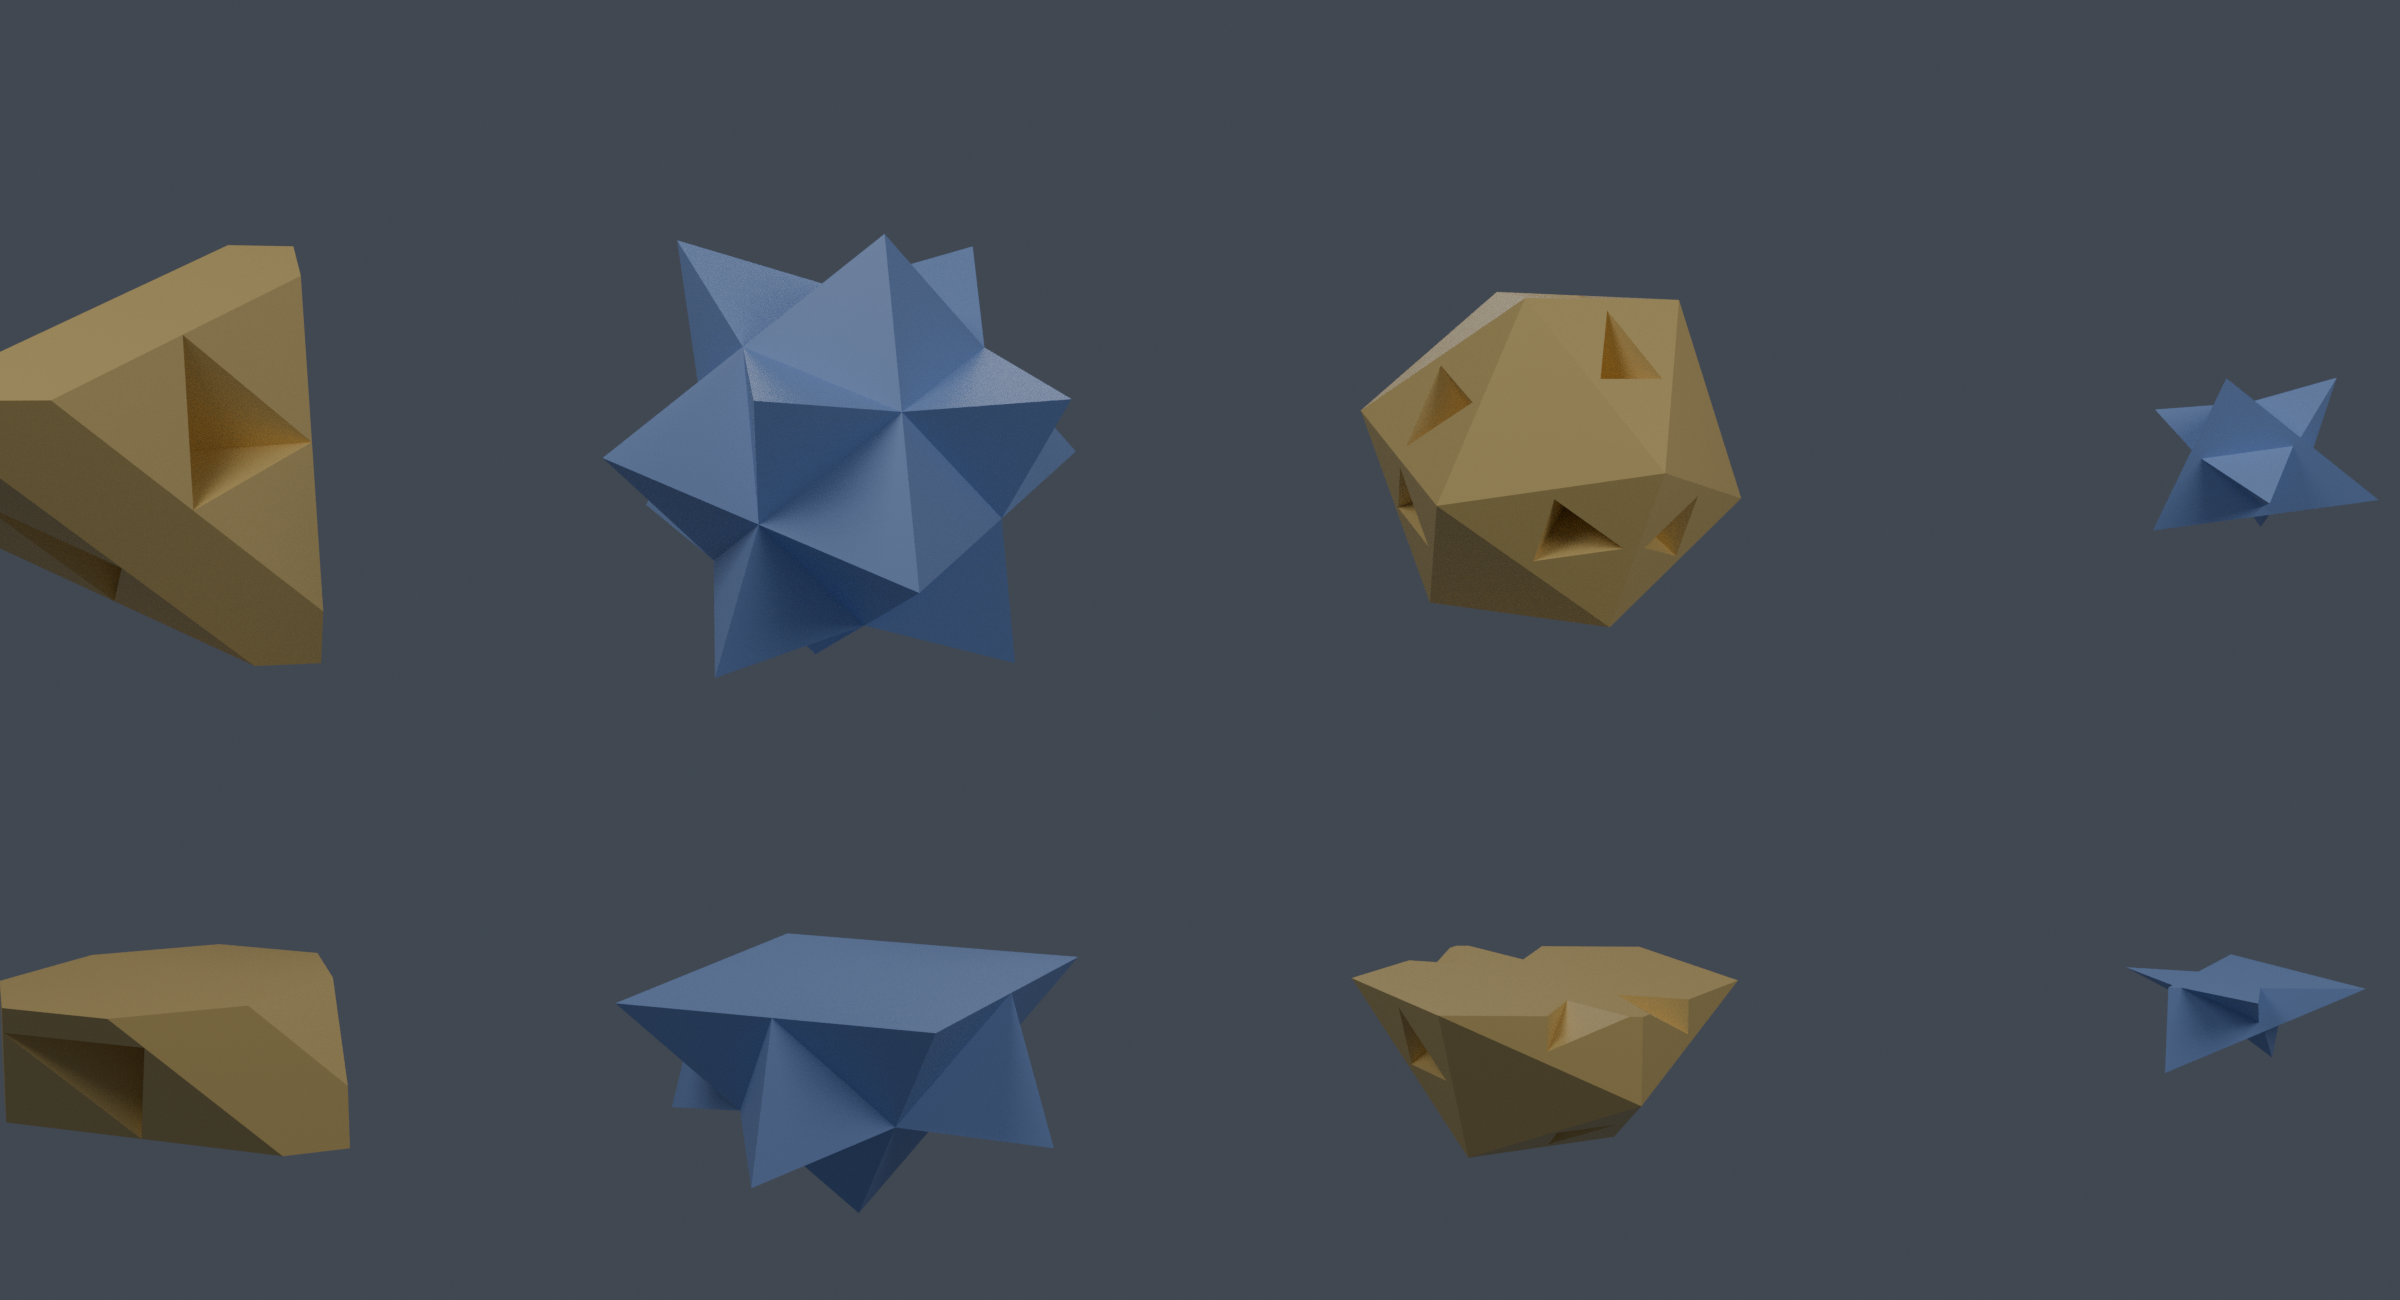
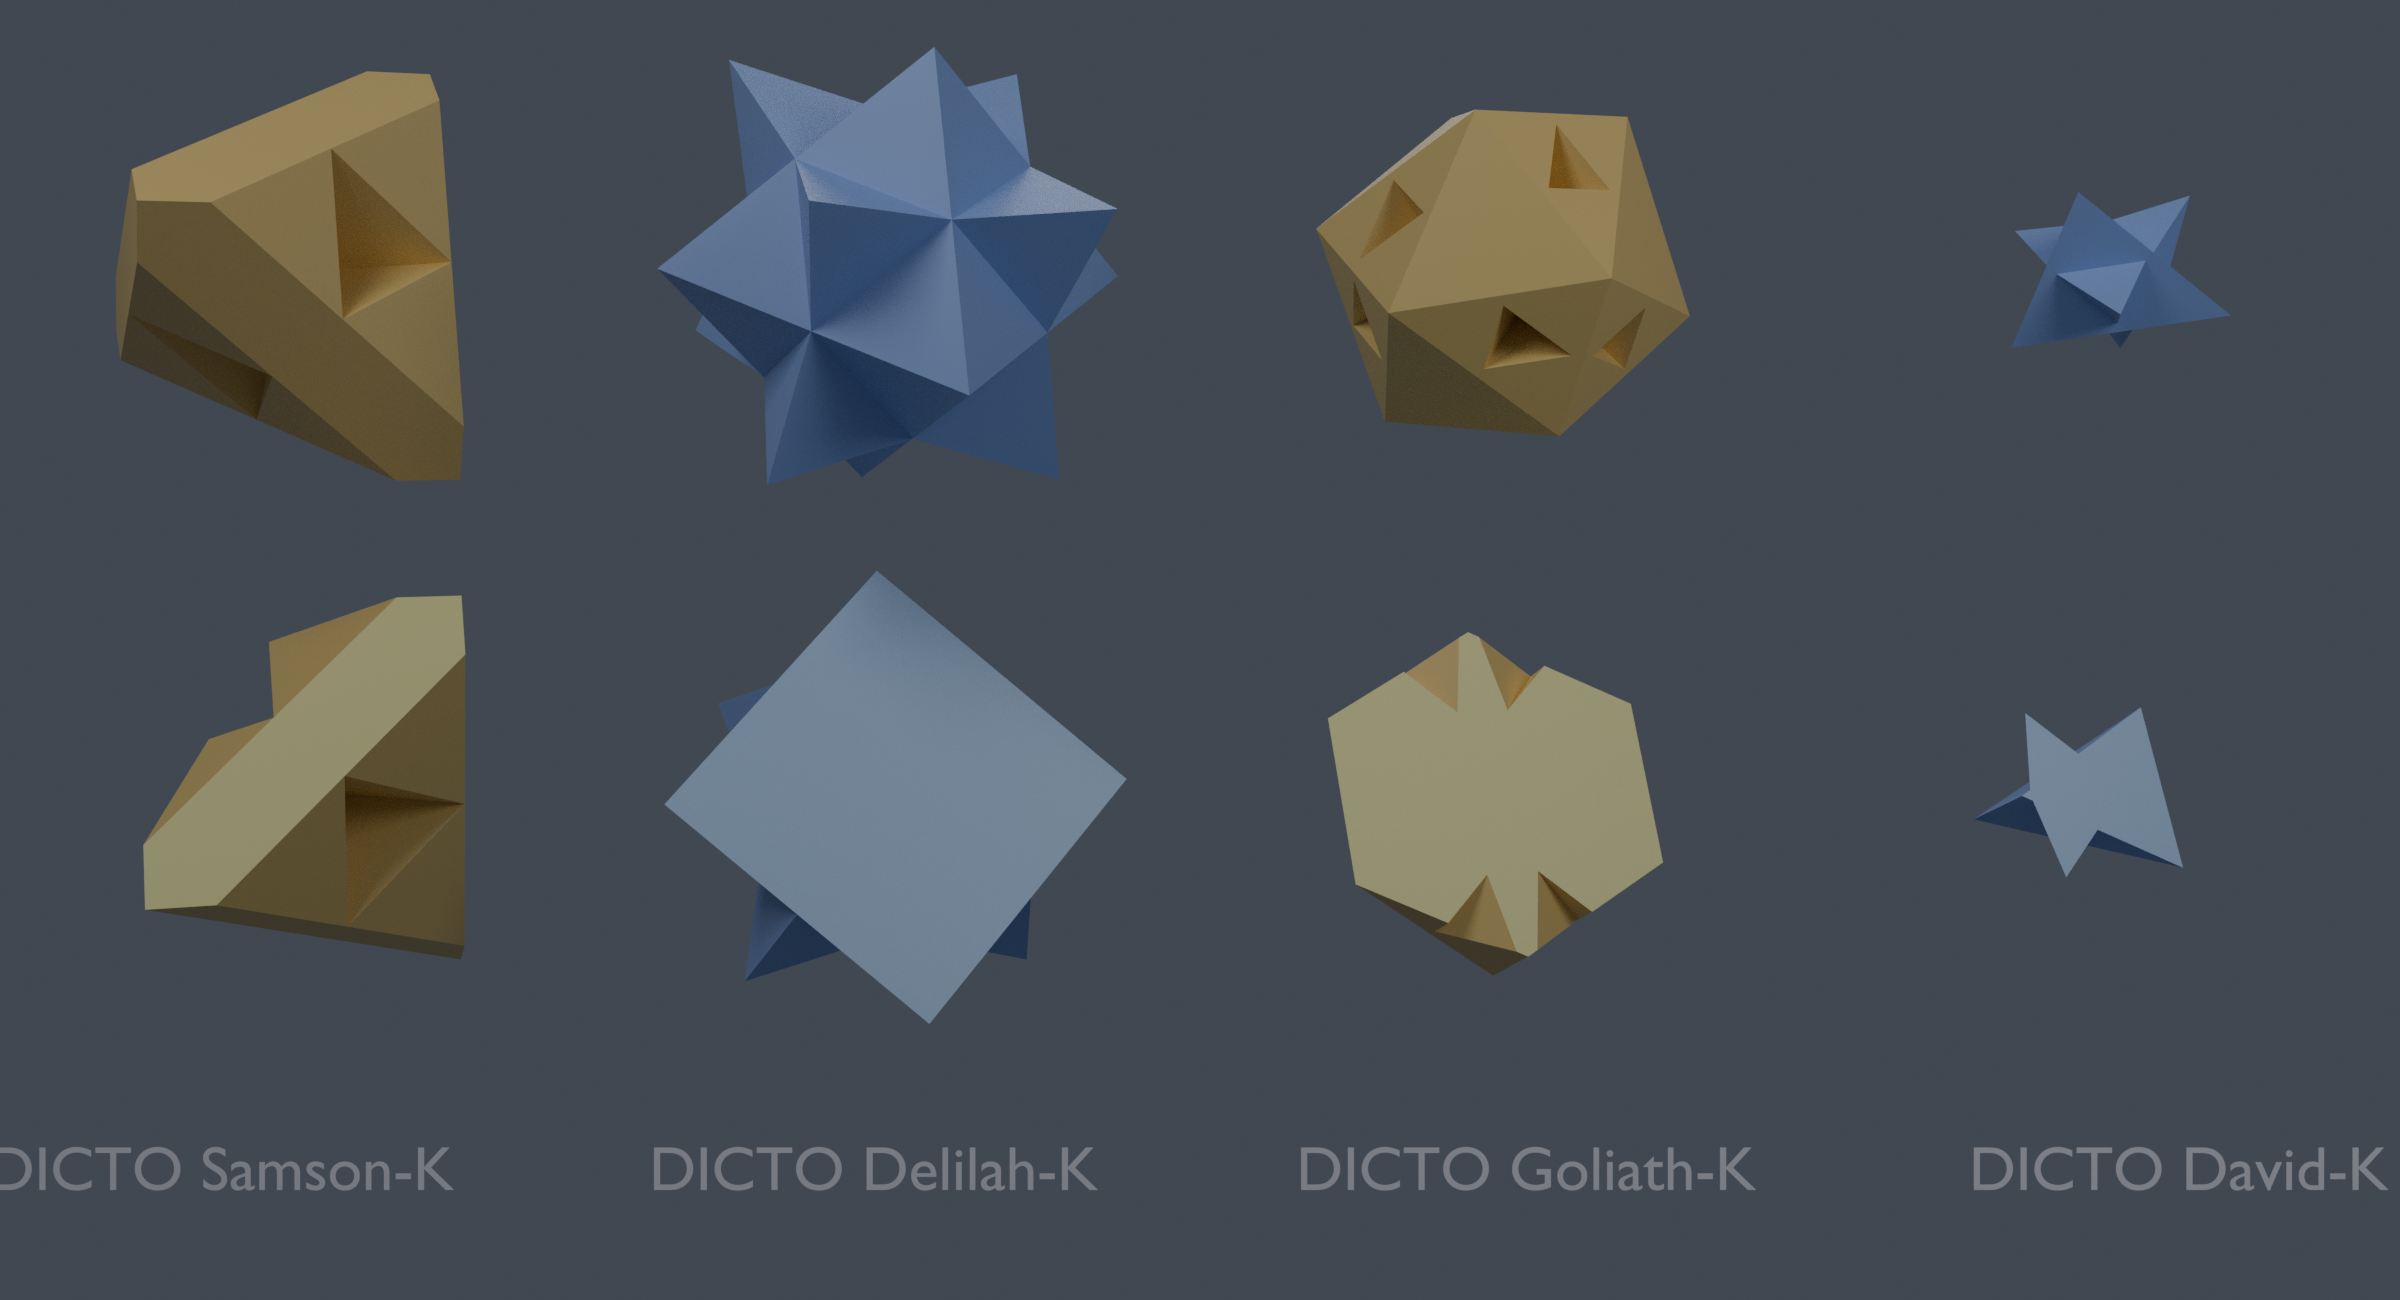
Keyed pairs named by DICTO: DICTO Samson-K, Delilah-K (A), Goliath-K, David-K (B); final render with names and cut views

diff --git a/studies/2026-10-25-keyed-choices/render_keyed.py b/studies/2026-10-25-keyed-choices/render_keyed.py
@@ -17,17 +17,25 @@ def load(fn,loc,m,cut=False,scale=1.0):
         bpy.ops.object.mode_set(mode='OBJECT')
     return o
 row=[('Samson',gold,2.2),('Delilah',blue,2.2),('Goliath',gold,1.25),('David',blue,1.25)]
-x=-7.5
+x=-6.6
 for lab,m,s in row:
     for fn,z in ((f'keyed-{lab}.obj',1.9),(f'keyed-{lab}-half.obj',-1.9)):
         if os.path.exists(fn):
             bpy.ops.wm.obj_import(filepath=os.path.abspath(fn)); o=bpy.context.selected_objects[0]
             o.data.materials.clear(); o.data.materials.append(m); o.scale=(s,)*3; o.location=(x,0,z)
-            o.rotation_euler=(math.radians(-90) if fn.endswith('half.obj') else math.radians(-60), 0, math.radians(25))
-    x+=5
-cam=bpy.data.objects.new('cam',bpy.data.cameras.new('cam')); sc.collection.objects.link(cam); cam.location=(0,-19,2.5); cam.rotation_euler=(math.radians(84),0,0); sc.camera=cam; cam.data.lens=40
+            # whole: three-quarter view; half: the cut face (plane y = centre, kept side y < centre) turned toward the camera, tilted 25°
+            o.rotation_euler=(math.radians(-25), 0, math.radians(20)) if fn.endswith('half.obj') else (math.radians(-60), 0, math.radians(25))
+            if fn.endswith('half.obj'):
+                cutm=mat('cut_'+lab,tuple(min(1,c*1.35+0.12) for c in m.node_tree.nodes['Principled BSDF'].inputs['Base Color'].default_value[:3]))
+                o.data.materials.append(cutm); me=o.data
+                for p in me.polygons:
+                    if abs(p.normal.y-1)<1e-3 or abs(p.normal.y+1)<1e-3: p.material_index=1
+    nm=bpy.data.curves.new('n'+lab,'FONT'); nm.body='DICTO '+lab+'-K'; nm.align_x='CENTER'; no=bpy.data.objects.new('n'+lab,nm); sc.collection.objects.link(no)
+    no.location=(x,-2,-4.3); no.rotation_euler=(math.radians(84),0,0); no.scale=(0.42,)*3; no.data.materials.append(mat('lab'+lab,(0.92,0.92,0.95)))
+    x+=4.4
+cam=bpy.data.objects.new('cam',bpy.data.cameras.new('cam')); sc.collection.objects.link(cam); cam.location=(0,-19.5,1.2); cam.rotation_euler=(math.radians(84),0,0); sc.camera=cam; cam.data.lens=40
 for loc,e in (((-10,-12,14),900),((12,-10,8),500),((0,10,10),300)):
     l=bpy.data.objects.new('l',bpy.data.lights.new('l','AREA')); l.data.energy=e; l.data.size=8; l.location=loc; sc.collection.objects.link(l)
     l.rotation_euler=(Vector((0,0,0))-Vector(loc)).to_track_quat('-Z','Y').to_euler()
-t=bpy.data.curves.new('t','FONT'); t.body='DICTO'; to=bpy.data.objects.new('t',t); sc.collection.objects.link(to); to.location=(8.6,-3,-3.9); to.rotation_euler=(math.radians(84),0,0); to.scale=(0.45,)*3; to.data.materials.append(mat('mark',(0.72,0.59,0.18)))
+t=bpy.data.curves.new('t','FONT'); t.body='DICTO'; to=bpy.data.objects.new('t',t); sc.collection.objects.link(to); to.location=(7.2,-3,-5.2); to.rotation_euler=(math.radians(84),0,0); to.scale=(0.38,)*3; to.data.materials.append(mat('mark',(0.72,0.59,0.18)))
 sc.render.filepath=os.path.abspath('keyed-pairs.png'); bpy.ops.render.render(write_still=True)

diff --git a/studies/2026-10-25-keyed-choices/keyed_choices.py b/studies/2026-10-25-keyed-choices/keyed_choices.py
@@ -86,5 +86,6 @@ for title,big,small,labels in panels:
         for piece,lab in ((big,labels[0]),(small,labels[1])):
             m=piece.to_mesh(); V=np.array(m.vert_properties)[:,:3]; c=V.mean(0)
             trimesh.Trimesh(V-c,np.array(m.tri_verts)).export(f'keyed-{lab}.obj')
-            half=piece.trim_by_plane([0,1,0],float(c[1])).to_mesh()
+            nrm=np.array([1.,-1.,0])/np.sqrt(2) if lab=='Samson' else np.array([0.,1.,0])   # Samson: a plane through one socket axis (1,1,1)
+            half=piece.trim_by_plane(list(nrm),float(np.dot(nrm,c))).to_mesh()
             trimesh.Trimesh(np.array(half.vert_properties)[:,:3]-c,np.array(half.tri_verts)).export(f'keyed-{lab}-half.obj'); open('keyed_choices.txt','w').write('\n'.join(out)+'\n'); print('\n'.join(out))
